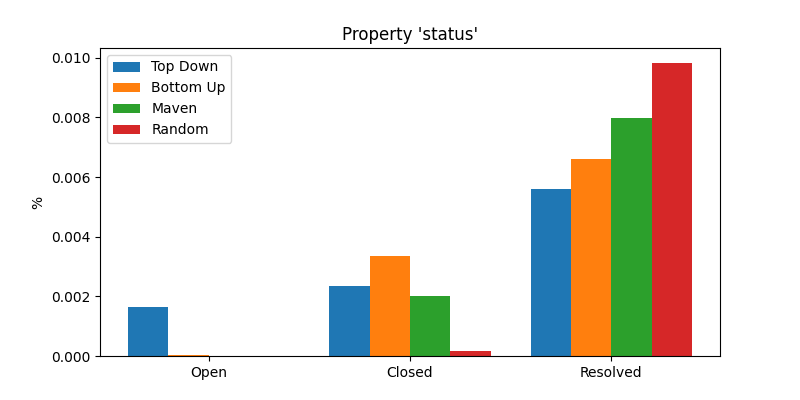
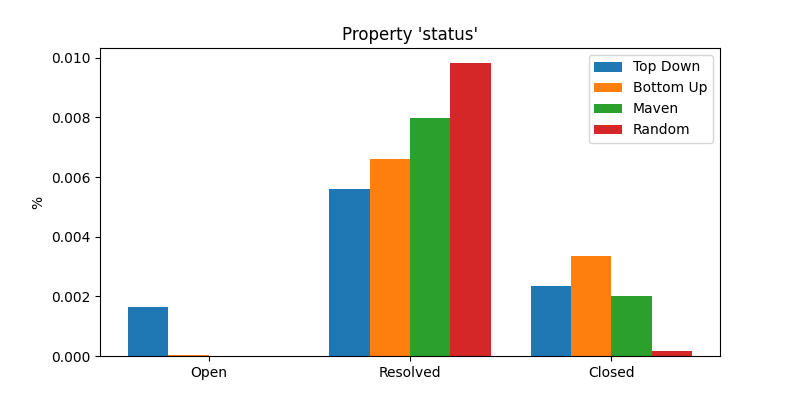
Requested Additional Graphs

diff --git a/Statistics/script-2-precision.py b/Statistics/script-2-precision.py
@@ -93,6 +93,82 @@ def plot_precision_data(tag = ""):
     if show_figures:
         plt.show()
 
+
+def plot_average_precision_data(tag = ""):
+    cac_precision, df_precision, r_precision, rs_precision, bu_precision, maven_added_prec, maven_removed_prec, maven_changed_prec, maven_total_prec = generate_precision_data(tag)
+
+    # average out the keywords precision data
+    max_k = len(maven_total_prec)
+    keywords_precision = []
+    for i in range(len(cac_precision)):
+        if i >= max_k:
+            break
+        keywords_precision.append((cac_precision[i] + df_precision[i] + r_precision[i] + rs_precision[i]) * 0.25)
+
+    if len(bu_precision) > max_k:
+        bu_precision = bu_precision[:max_k]
+
+    fig, ax = plt.subplots()
+    ax.plot(keywords_precision, label='Keywords Searches')
+    ax.plot(maven_total_prec, label='Maven Dependencies')
+    ax.plot(bu_precision, label='Static SC Analysis')
+
+    ax.set(xlabel='k', ylabel='Precision')
+    ax.set_title(tag)
+    ax.legend()
+
+    fig.set_size_inches(8,4.5)
+    plt.savefig(f'figures/precision/average_{tag}_precision.png')
+    if show_figures:
+        plt.show()
+
+def plot_limited_precision_data(tag = ""):
+    cac_precision, df_precision, r_precision, rs_precision, bu_precision, maven_added_prec, maven_removed_prec, maven_changed_prec, maven_total_prec = generate_precision_data(tag)
+
+    max_k = len(maven_total_prec)
+    for maven_list in [maven_added_prec, maven_removed_prec, maven_changed_prec]:
+        if len(maven_list) < max_k:
+            max_k = len(maven_list)
+    
+    maven_added_prec = maven_added_prec[:max_k]
+    maven_removed_prec = maven_removed_prec[:max_k]
+    maven_changed_prec = maven_changed_prec[:max_k]
+    
+    fig, ax = plt.subplots()
+    ax.plot(maven_added_prec, label='Maven Dependencies: Added')
+    ax.plot(maven_removed_prec, label='Maven Dependencies: Removed')
+    ax.plot(maven_changed_prec, label='Maven Dependencies: Changed')
+
+    ax.set(xlabel='k', ylabel='Precision')
+    ax.set_title(tag)
+    ax.legend()
+    fig.set_size_inches(8,4.5)
+    plt.savefig(f'figures/precision/maven_limited_{tag}_precision.png')
+    if show_figures:
+        plt.show()
+
+def plot_query_precision_data(tag = ""):
+    cac_precision, df_precision, r_precision, rs_precision, bu_precision, maven_added_prec, maven_removed_prec, maven_changed_prec, maven_total_prec = generate_precision_data(tag)
+    fig, ax = plt.subplots()
+
+    max_k = 600
+    cac_precision = cac_precision[:max_k]
+    df_precision = df_precision[:max_k]
+    r_precision = r_precision[:max_k]
+    rs_precision = rs_precision[:max_k]
+
+    ax.plot(cac_precision, label='Components And Connectors')
+    ax.plot(df_precision, label='Descision Factors')
+    ax.plot(r_precision, label='Rationale')
+    ax.plot(rs_precision, label='Reusable Solutions')
+    ax.set(xlabel='k', ylabel='Precision')
+    ax.set_title(tag)
+    ax.legend()
+    fig.set_size_inches(8,4.5)
+    plt.savefig(f'figures/precision/queries_precision.png')
+    if show_figures:
+        plt.show()
+
 # Counts the occurences of tag in issues
 def get_tag_count(issues, tag):
     count = 0
@@ -127,6 +203,7 @@ def plot_tag_data(project = None):
         plt.show()
 
 
+"""
 plot_precision_data()
 plot_precision_data("Existence")
 plot_precision_data("Property")
@@ -139,3 +216,12 @@ plot_tag_data('HDFS')
 plot_tag_data('MAPREDUCE')
 plot_tag_data('YARN')
 plot_tag_data('TAJO')
+
+
+plot_average_precision_data()
+for dec_type in ["Existence", "Executive", "Property"]:
+    plot_average_precision_data(dec_type)
+
+plot_limited_precision_data()
+plot_query_precision_data()
+"""

diff --git a/Statistics/script-3-intersection.py b/Statistics/script-3-intersection.py
@@ -36,31 +36,57 @@ def get_AK_issues_with_properties(AK):
 
 
 
+def plot_method_type_yield(issue_list, filename):
+    # separate it out into projects
+    data = {}
+    types = ['Executive', 'Property', 'Existence']
+    for issue in issue_list:
+        project = issue['key'].split('-')[0]
+        if project not in data:
+            data[project] = {}
+        for tag in issue['tags']:
+            if tag['name'] in types:
+                thisTag = tag['name']
+                if thisTag not in data[project]:
+                    data[project][thisTag] = 0
+                data[project][thisTag] += 1
+
+    projects = data.keys()
+
+    x_labels = [project.title() for project in projects]
+
+    fig, ax = plt.subplots()
+
+    heights = []
+
+    for i in range(len(types)):
+        bottoms = [0] * len(projects)
+
+        for prev in heights:
+            for j in range(len(prev)):
+                bottoms[j] += prev[j]
+
+        heights.append([])
+        for project in projects:
+            if types[i] in data[project]:
+                heights[i].append(data[project][types[i]])
+            else:
+                heights[i].append(0)
+        
+
+        ax.bar(x_labels, heights[i], 0.7, bottom = bottoms, label=types[i])
+
+    ax.legend()
+    plt.title(f"Method Yields: {filename}")
+
+    plt.savefig(f'figures/intersection/method_comparison_{filename}.png')
+    if show_figures:
+        plt.show()
+
 
 def plot_property_comparison(issue_lists, issue_property, graph_labels, filename=""):
     # prop_lists: td, bu, mav, mav_td, mav_bu, td_bu, all, bhat
     labels, prop_lists = count_property(issue_lists, issue_property)
-    """
-    if issue_property == "status":
-        with open('output.json','w+') as outfile:
-            json.dump(prop_lists, outfile)
-        closedIdx = -1
-        resolvedIdx = -1
-        for i in range(len(labels)):
-            if labels[i].lower() == 'closed':
-                closedIdx = i
-            if labels[i].lower() == 'resolved':
-                resolvedIdx = i
-        if closedIdx == -1 or resolvedIdx == -1:
-            print("Something went wrong.")
-        else:
-            # we need to merge these
-            labels.pop(resolvedIdx)
-            for issue_list in prop_lists:
-                print(issue_list[closedIdx])
-                issue_list[closedIdx] += issue_list[resolvedIdx]
-                issue_list.pop(resolvedIdx)
-    """
 
     barWidth = 0.25
 
@@ -144,6 +170,10 @@ def plot_comparisons(AK):
         plot_property_comparison(lists, property, graph_labels)
     for property in properties_box:
         box_plot_property_distribution(lists, property, graph_labels)
+
+    plot_method_type_yield(td, "Keywords Searches")
+    plot_method_type_yield(bu, "Static SC Analysis")
+    plot_method_type_yield(mav, "Maven Dependencies")
 
 
 AK = True
